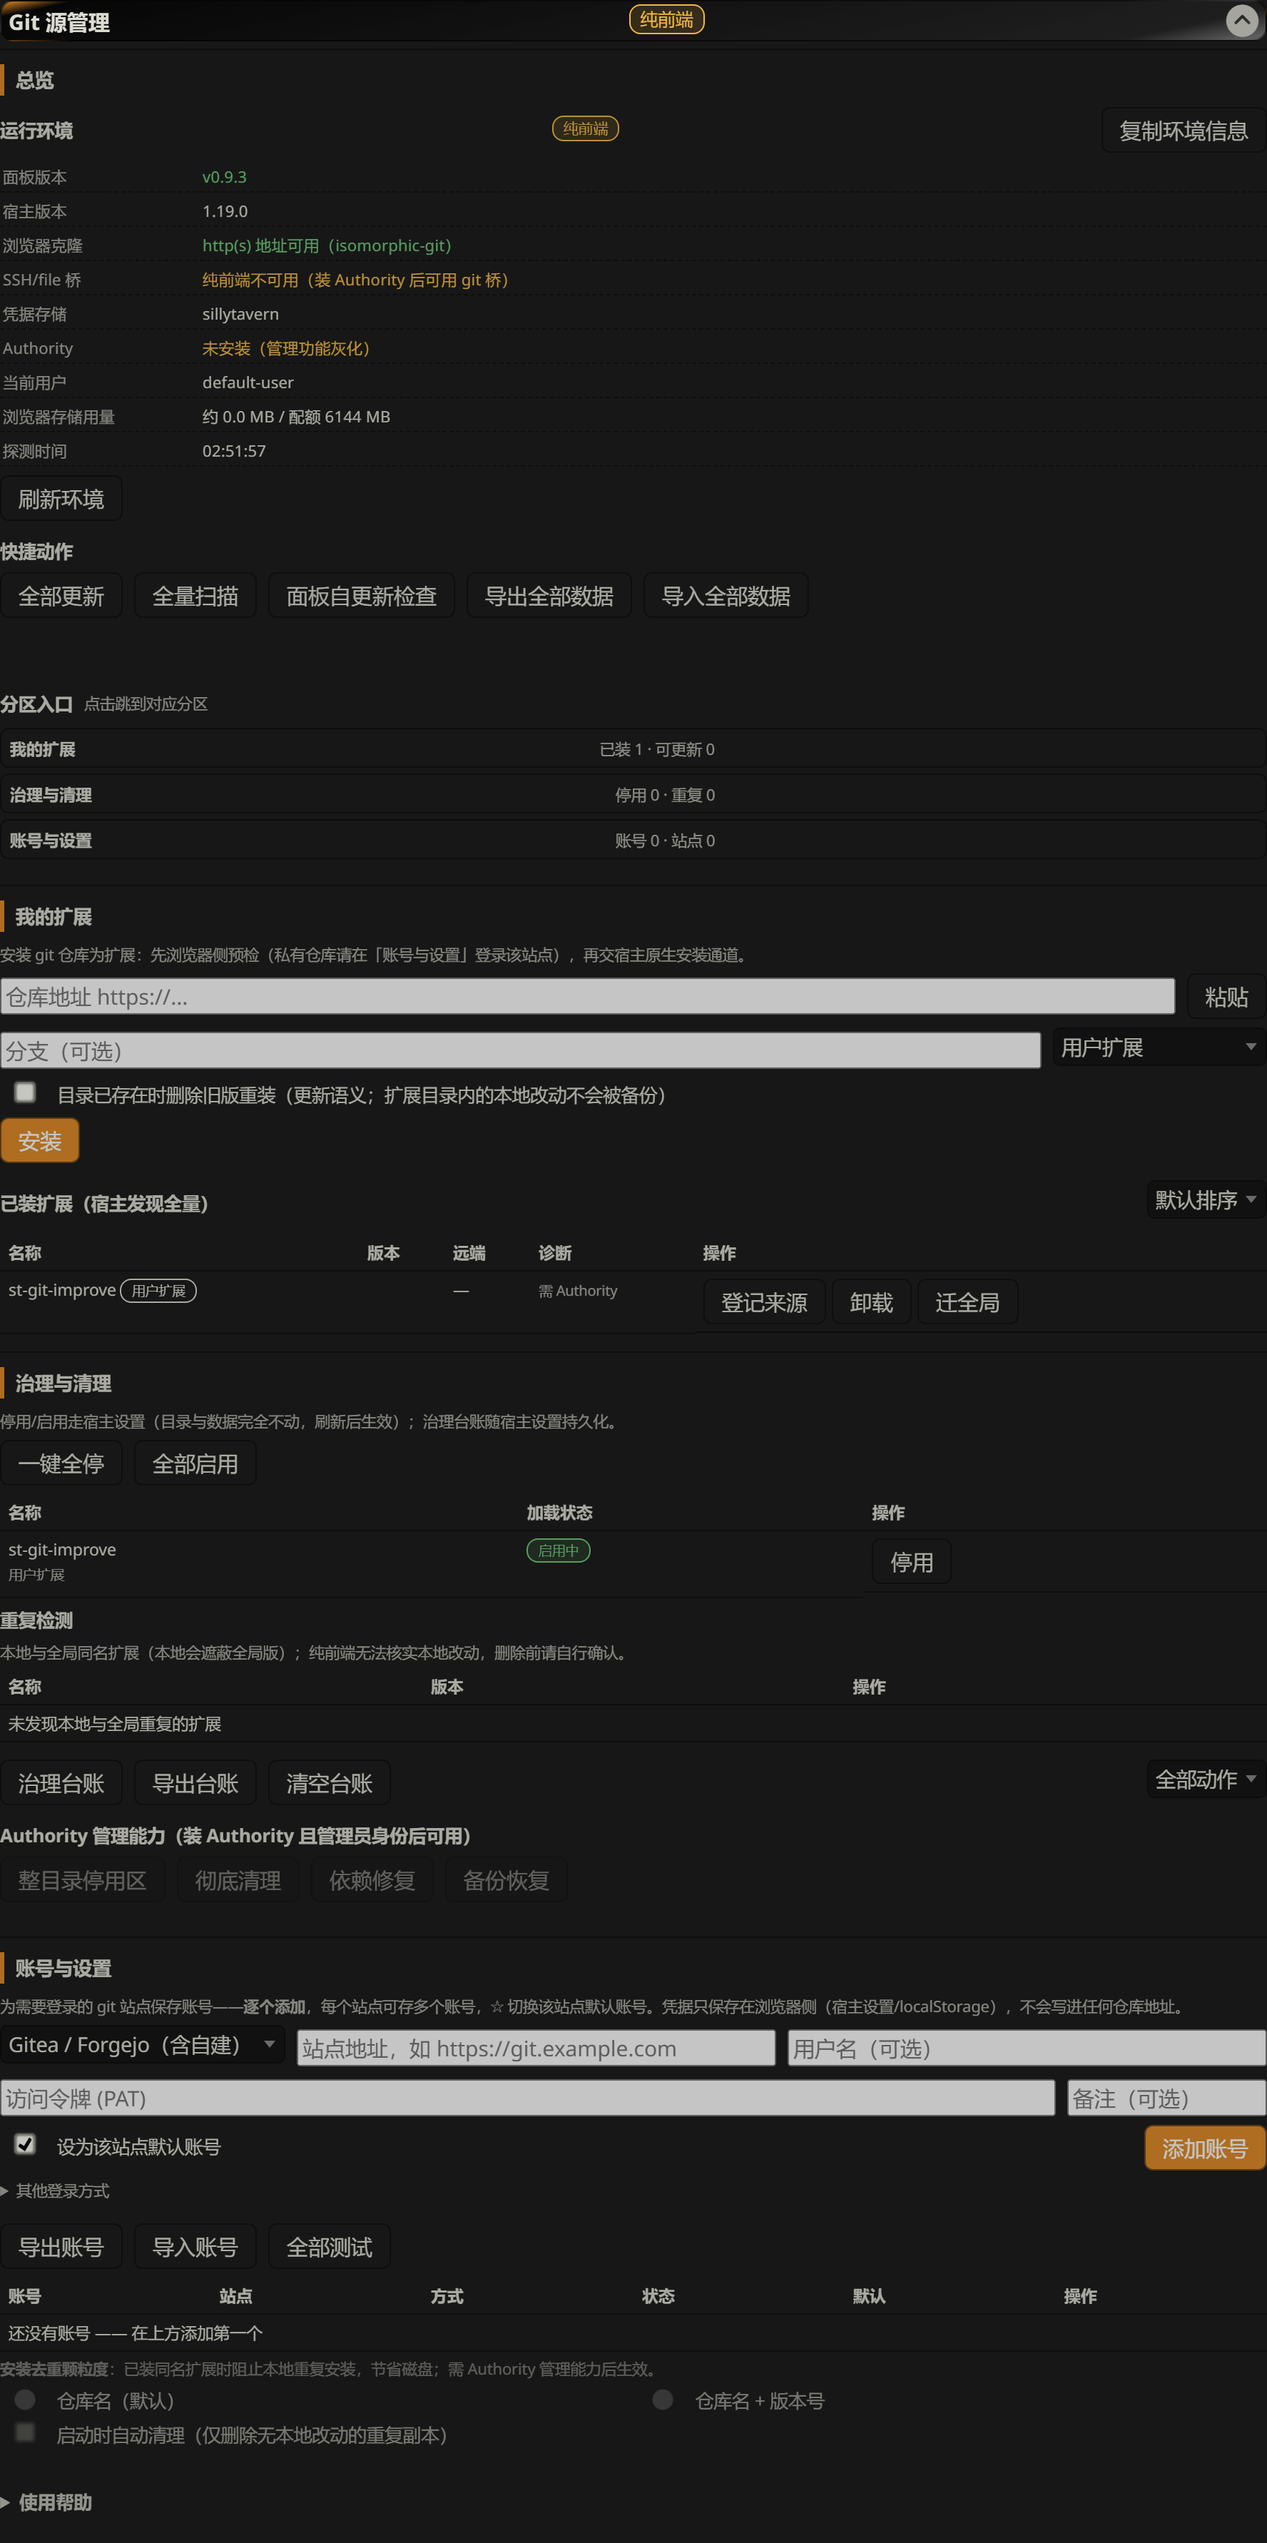
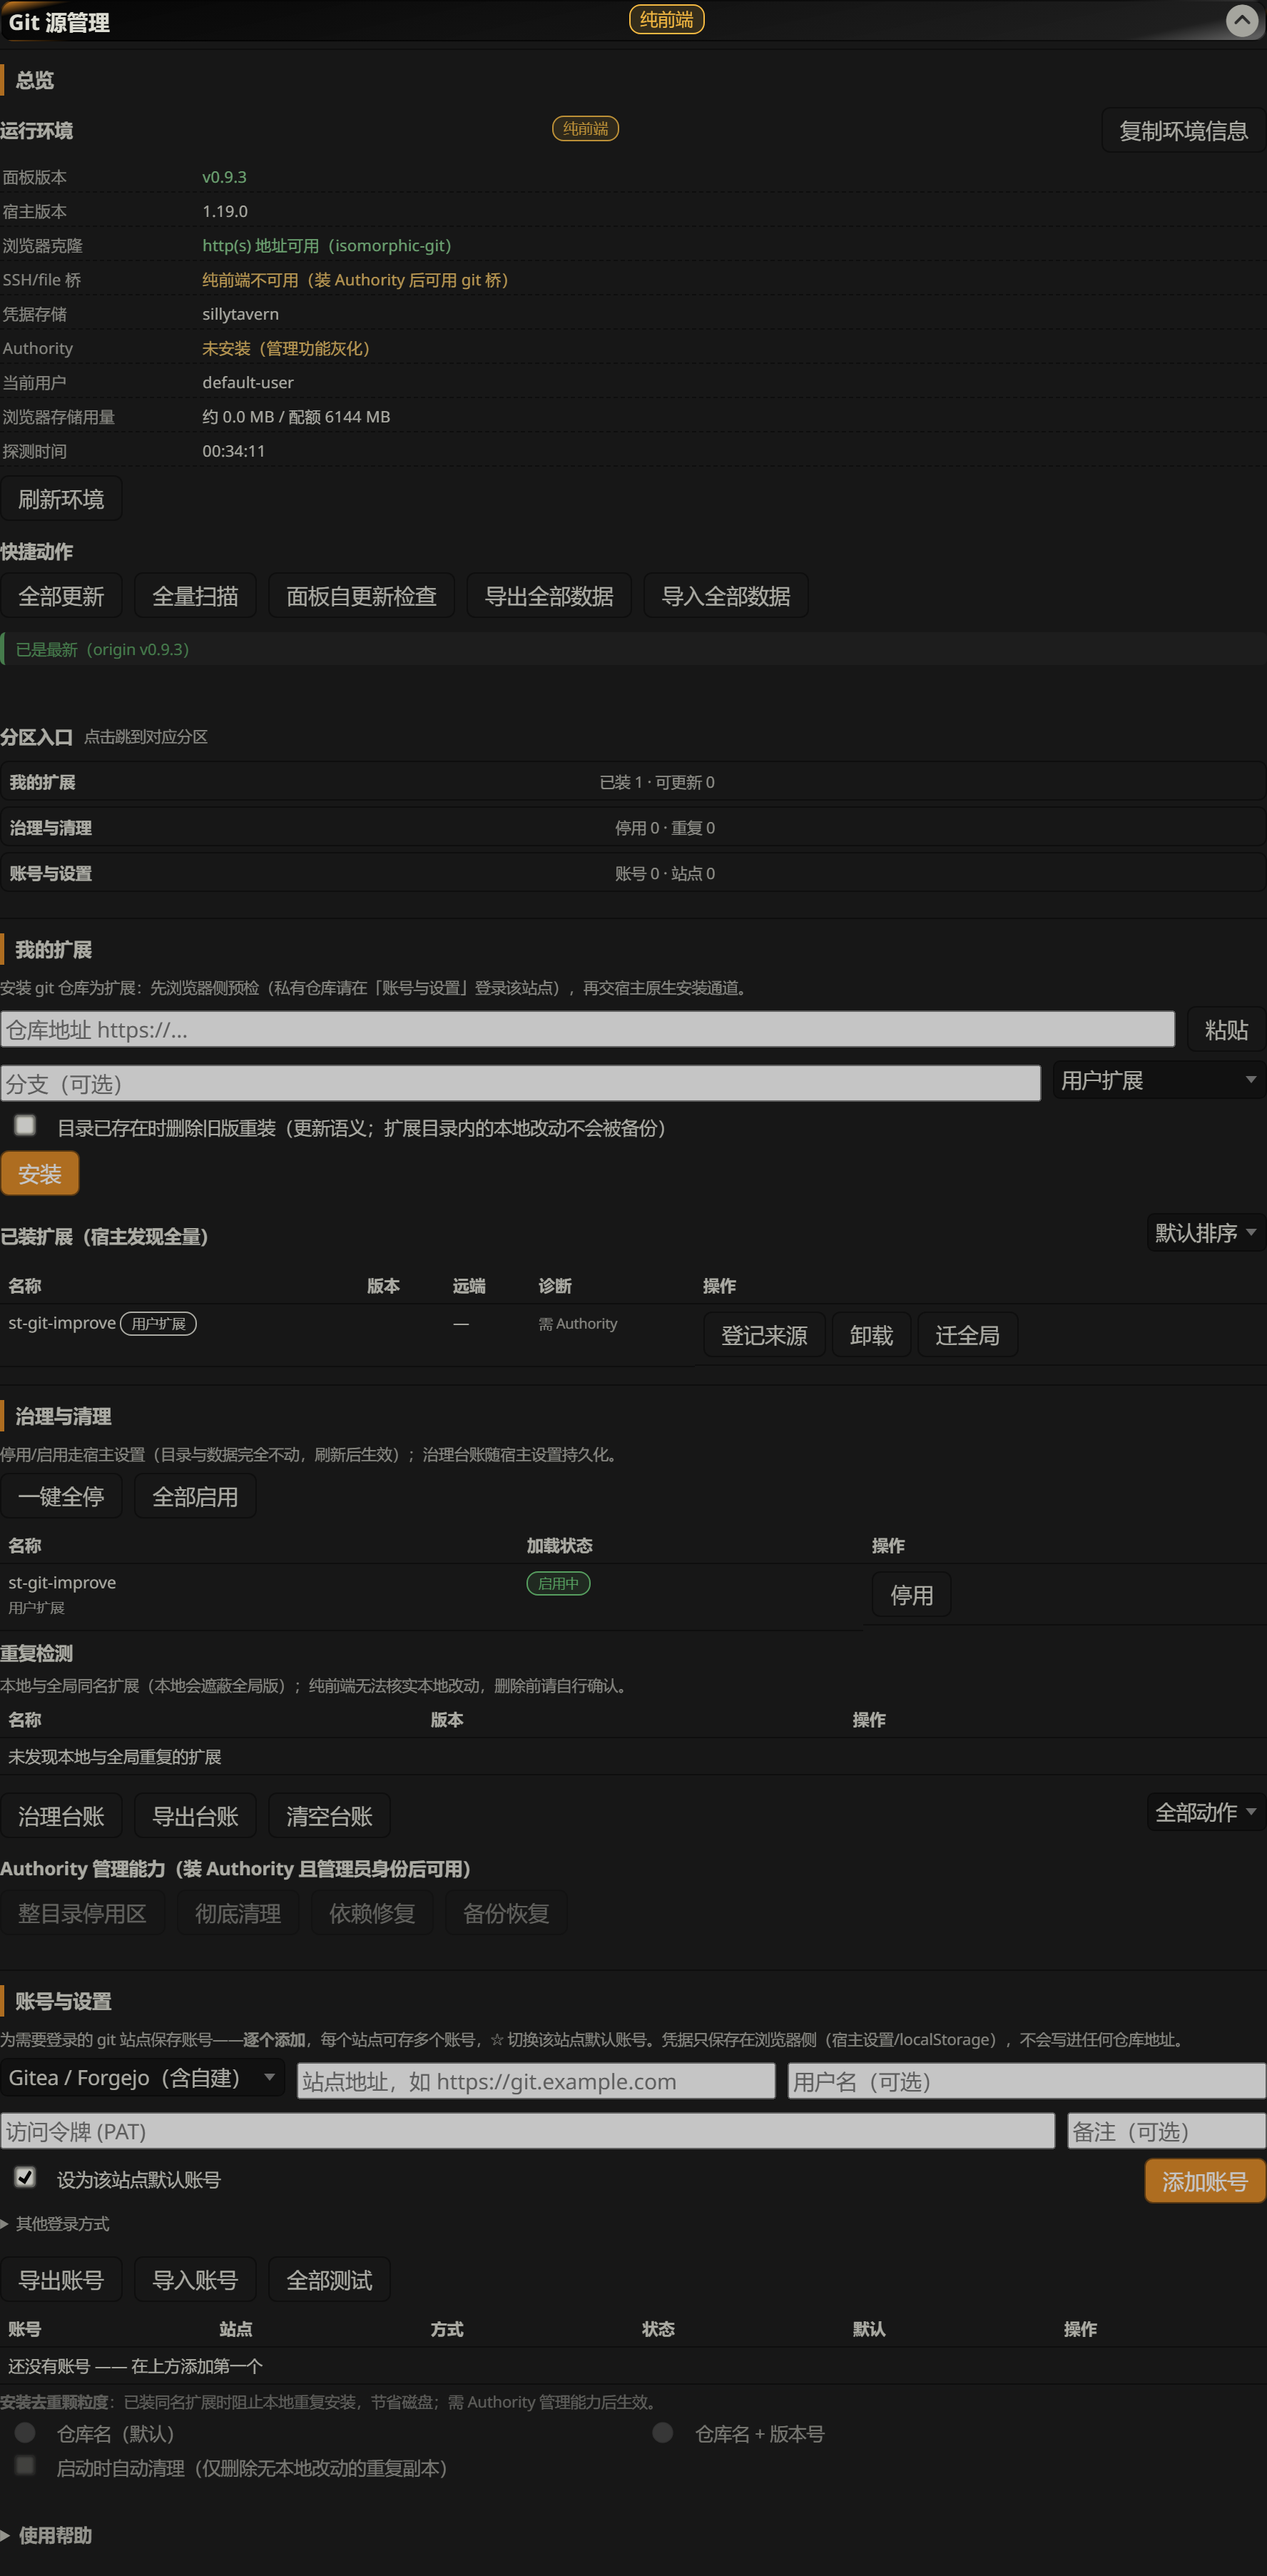
docs: 重拍 README 总览实拍图（当前 UI 形态）；CHANGELOG 单测计数校准 147

diff --git a/CHANGELOG.md b/CHANGELOG.md
@@ -128,8 +128,9 @@
   改为主题自适应 `color-mix`（亮色浅灰、暗色近黑）。
 - 壳 mock `POST /api/extensions/update` + `localStorage.__stgiDemoUpdateConflict`
   演示开关（`untracked` / `local`）与自检确定性演示（`__stgiDemoSelfUpdate`，api.github.com
-  对壳环境间歇可达收编为 mock）；`check-conflict-repair` 七案（无损成功 / 冲突卡+复制清单 /
-  重建全流程 / 台账留痕 / 本地改动冲突 / 自更新执行 / 批量冲突不自动重建）入 `npm run verify`。
+  对壳环境间歇可达收编为 mock）；`check-conflict-repair` 九案（无损成功 / 冲突卡+复制清单 /
+  重建全流程 / 台账留痕 / 本地改动冲突 / 自更新执行 / 批量冲突不自动重建 /
+  无通道回退重建 / 分叉专文案）入 `npm run verify`。
 
 ### 工程与验证
 
@@ -137,7 +138,7 @@
   多扩展演示注入）、`inspect-styles`（计算样式抽查）、`check-input-normalize` /
   `check-iter2-interactions` / `check-register` / `check-repo-summary` / `check-iter7` /
   `check-backup` / `check-user-journey`（用户旅程）/ `check-public-install`（安装编排）/
-  `check-conflict-repair`（更新冲突识别与修复七案）/ `check-light-theme` / `check-mobile`
+  `check-conflict-repair`（更新冲突识别与修复九案）/ `check-light-theme` / `check-mobile`
   （响应式/主题验证）、`shot-readme.mjs`（README 配图实拍）；`npm run verify` 一键串跑 10 步。
 - 活体 E2E 断言同步：快捷动作断言扩为五件套（+导出/导入全部数据）。
 - 旧架构脚本标注废弃（`e2e-live-dev` / `e2e-live-session` / `install-to-tavern`——
@@ -146,7 +147,7 @@
 - spec 沉淀：`.trellis/spec/guides/instance-deploy-verify.md` 新增「standalone 壳验证流程」
   与「宿主 UI 契约」两节（popup div 按钮 / checkbox 尺寸纪律 / 表格列宽 / 候选端点探测 /
   CI 文案口径 / SmartTheme 变量语义 / sticky 父元素边界）。
-- 单测 145/145（+33：conflict 分类器 14 案 + repairflow 编排 15 案 + selfExtensionName 4 案）；CI 六项自查通过；
+- 单测 147/147（+35：conflict 分类器 14 案 + repairflow 编排 17 案 + selfExtensionName 4 案）；CI 六项自查通过；
   全部改动经 standalone 壳截图/交互验证（`verify-all.mjs` 一键串跑 10 步全 PASS）；
   375px 窄视口实测无水平溢出；亮色主题映射修正后复核（修复卡/日志底色改主题自适应
   color-mix）。
